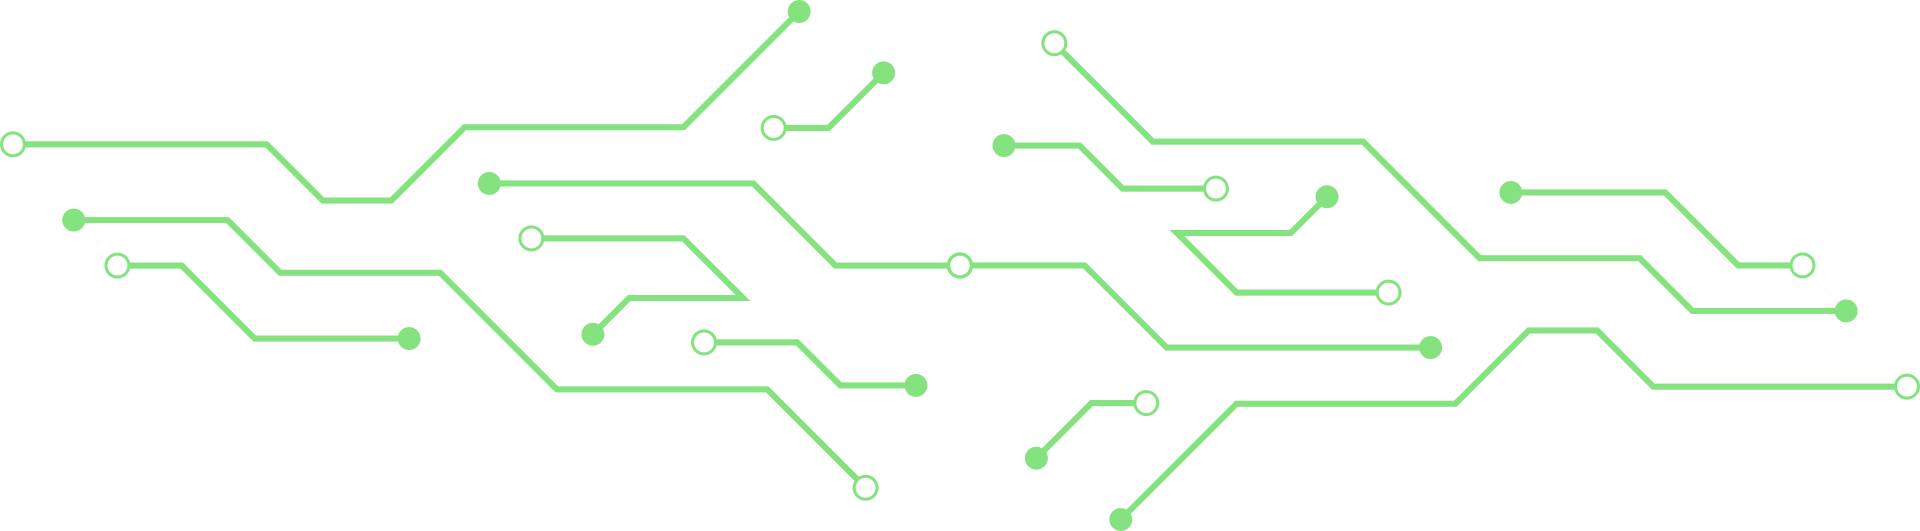
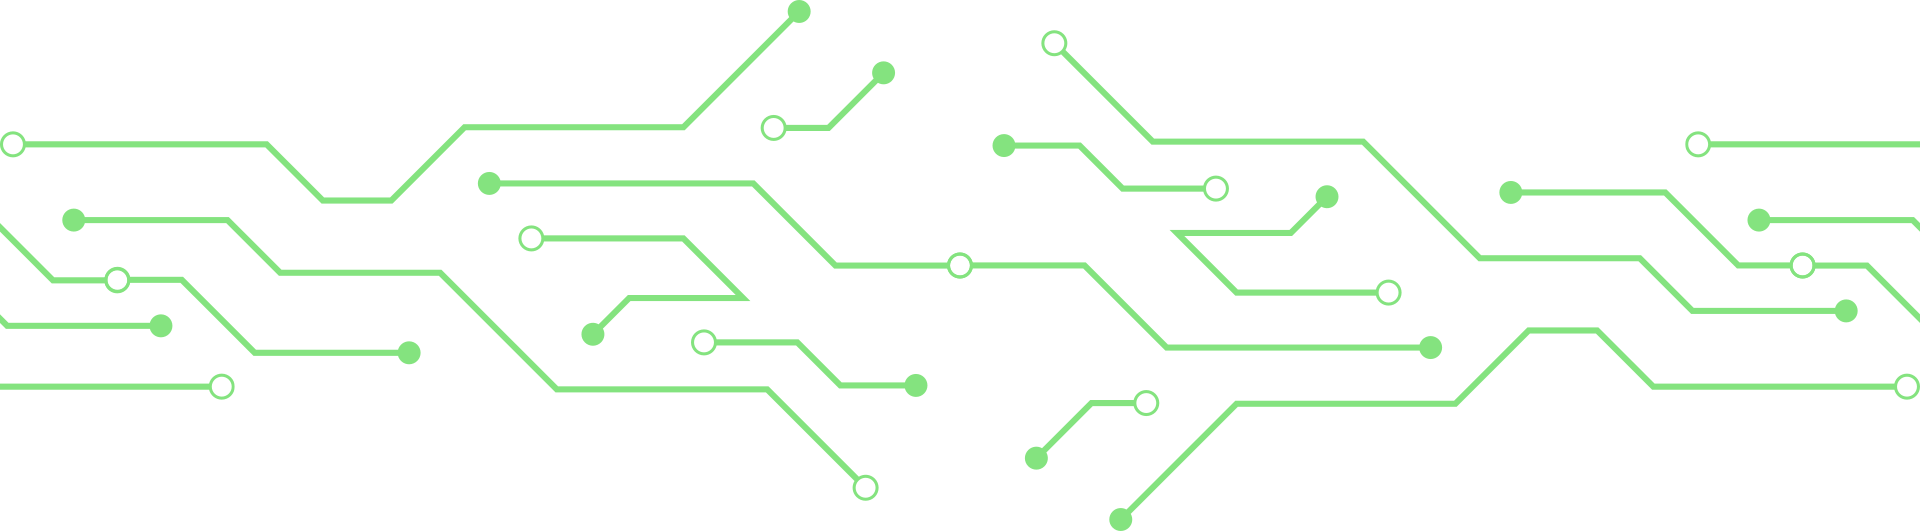
pcb ok

diff --git a/styles.css b/styles.css
@@ -36,9 +36,9 @@ body {
 .flexbox-header {
   
   background-image: url("./assets/incub.png");
-  background-repeat: no-repeat;
-  background-position: center center;
-  background-size: contain;
+  background-repeat: no-repeat ;
+  background-position: center center ;
+  background-size: contain ;
   color: white;
   text-align: center;
   position: relative;
@@ -47,25 +47,37 @@ body {
   height: 8EM;
 }
 
+.flexbox-header::before {
+  content: '';
+  top: -41%;                                             /* 👈 AJOUTER */
+  left: 0;  
+  position: absolute;                                           /* 👈 Position précise */
+  width: 100%;                                        /* 👈 Largeur du parent seulement */
+  height: 200%;                                       /* 👈 Déborde vers le bas */
+  background-image: url("./assets/pcb.png");
+  background-repeat: repeat-x;
+  background-position: center center;                       /* 👈 Centré */
+  background-size: CONTAIN;                         /* 👈 Taille relative à la hauteur */
+  z-index: -1;
+  
+   /* 👈 FONDU HORIZONTAL */
+   mask: linear-gradient(to right, 
+   transparent 10%,                                   /* 👈 Transparent à gauche */
+   black 25%,                                        /* 👈 Opaque au centre */
+   black 75%,                                        /* 👈 Opaque au centre */
+   transparent 90%                                  /* 👈 Transparent à droite */
+ );
+ -webkit-mask: linear-gradient(to right, 
+   transparent 10%, black 25%, black 75%, transparent 90%
+ );
+}
+
+
 
 @keyframes shimmer {
   0% { left: -100%; }
   50% { left: 100%; }
   100% { left: -100%; }
-}
-
-.flexbox-header h1 {
-  margin: 0 0 0.5rem 0;
-  font-size: clamp(1.5rem, 4vw, 2.5rem);
-  font-weight: 700;
-  font-family: var(--card-font-header-family);
-}
-
-.flexbox-header p {
-  margin: 0;
-  font-size: clamp(0.9rem, 2vw, 1.2rem);
-  opacity: 0.9;
-  font-weight: 400;
 }
 
 
@@ -96,7 +108,7 @@ body {
   background: transparent;
   border-radius: 20px;
   margin: 1rem;
-  overflow: hidden;
+  overflow: visible;
 }
 
 .BackgroundIncub {
@@ -106,11 +118,11 @@ body {
   width: 100vw;
   height: 100vh;
   background-color: black;
-  background-image: url("./assets/logo%20oeuf%20bgV2.svg"), url("./assets/pcb.png");
-  background-repeat: no-repeat, no-repeat;
-  background-position: 100% 50%, 50% -20%;
-  background-size: auto, 120%;
-  background-attachment: fixed, local;
+  background-image: url("./assets/logo%20oeuf%20bgV2.svg");
+  background-repeat: no-repeat;
+  background-position: 100% 50%;
+  background-size: auto;
+  background-attachment: fixed;
   z-index: -1; /* 🔥 IMPORTANT : bien en arrière-plan */
 }
 
